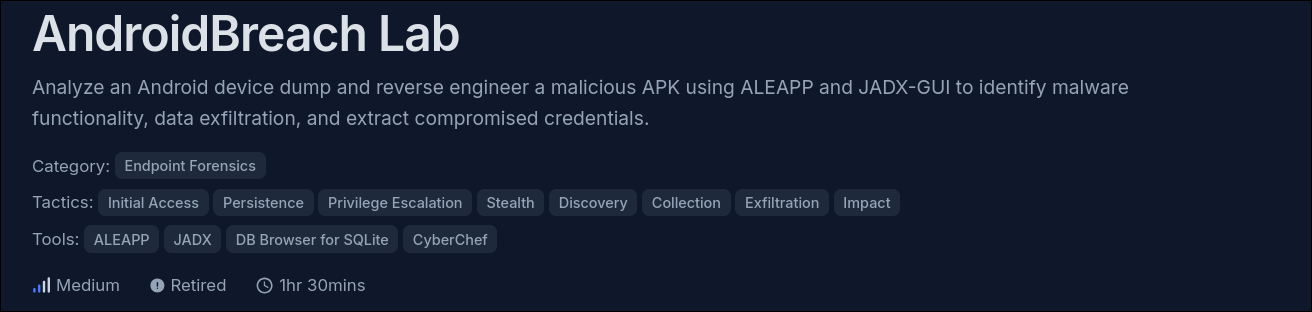
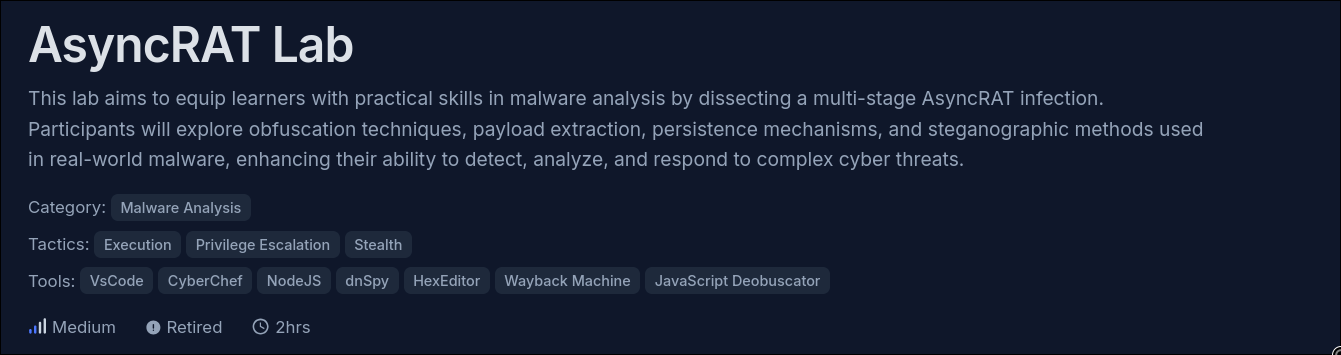
fix some image

diff --git a/_posts/cyber-defenders/threat-hunting/2026-10-03-cyber-defenders-shadowroast.md b/_posts/cyber-defenders/threat-hunting/2026-10-03-cyber-defenders-shadowroast.md
@@ -83,7 +83,7 @@ index=shadowroast winlog.event_id=11 winlog.event_data.TargetFilename="C:\\Users
 
 ![image 5.png](/assets/img/cyber-defenders/shadowroast/image%205.png)
 
-Between **01:07:09** and **01:07:19**, `AdobeUpdater.exe` wrote three files to **C:\Users\Default\AppData\Local\Temp\**: **BackupUtility.exe**, **SystemDiagnostics.ps1**, and **DefragTool.exe**. The `Default` directory is a template profile used by Windows when creating profiles for new users; it is rarely accessed by anyone, making it a stealthy location for the attacker's toolkit. The filenames were also disguised as legitimate system utilities. The last row shows a file named `CrashDump.zip` on `FileServer`, which was also dropped in this exact path—I will revisit this in Q8.
+Between **01:07:09** and **01:07:19**, `AdobeUpdater.exe` wrote three files to **C:\Users\Default\AppData\Local\Temp\**: **BackupUtility.exe**, **SystemDiagnostics.ps1**, and **DefragTool.exe**. The `Default` directory is a template profile used by Windows when creating profiles for new users; it is rarely accessed by anyone, making it a stealthy location for the attacker's toolkit. The filenames were also disguised as legitimate system utilities. The last row shows a file named `CrashDump.zip` on `FileServer`, which was also dropped in this exact path (I will revisit this in Q8).
 
 **Answer: C:\Users\Default\AppData\Local\Temp\**
 
@@ -108,7 +108,7 @@ The `OriginalFileName` field is hardcoded into the file during compilation and r
 
 > **Q5: Was the attacker's credential harvesting successful? If so, can you provide the compromised domain account username?**
 
-First, it is important to understand how AS-REP Roasting works. When a user logs into a domain, the machine sends a request for a TGT ticket to the domain controller. Normally, this request must include a timestamp encrypted with the user's password—known as pre-authentication—to prove the requester knows the password. If an account has this requirement disabled, anyone can request a ticket for it, and a portion of the response will be encrypted using the account's password. The attacker can then take this encrypted portion offline and crack it using tools like hashcat, matching the `/format:hashcat` parameter seen in Q4. The domain controller logs every TGT issuance as Event **4768**, which includes a **PreAuthType** field; a value of 0 indicates no pre-authentication was used.
+First, it is important to understand how AS-REP Roasting works. When a user logs into a domain, the machine sends a request for a TGT ticket to the domain controller. Normally, this request must include a timestamp encrypted with the user's password (known as pre-authentication) to prove the requester knows the password. If an account has this requirement disabled, anyone can request a ticket for it, and a portion of the response will be encrypted using the account's password. The attacker can then take this encrypted portion offline and crack it using tools like hashcat, matching the `/format:hashcat` parameter seen in Q4. The domain controller logs every TGT issuance as Event **4768**, which includes a **PreAuthType** field; a value of 0 indicates no pre-authentication was used.
 
 ```spl
 index=shadowroast source="*DC01*" winlog.event_id=4768 @timestamp>"2024-08-06T01:05" @timestamp<"2024-08-06T01:14"
@@ -202,7 +202,7 @@ At **01:20:44**, `tcooper`'s `explorer.exe` launched **powershell.exe -noexit -c
 
 > **Conclusion**
 > 
-> By threat hunting within Splunk using the Security and Sysmon logs of three machines—**Office-PC**, **FileServer**, and **DC01**—I successfully reconstructed an Active Directory attack that unfolded over approximately **16 minutes** on the morning of **2024-08-06**. At **01:05:11**, the user **sanderson** executed **AdobeUpdater.exe** from the Downloads folder on `Office-PC`. Less than a minute later, it established persistence by creating the Run key **wyW5PZyF** to load a registry-hidden payload upon login, and dropped **Rubeus**, a PowerShell script, and **mimikatz** into **C:\Users\Default\AppData\Local\Temp\** using masqueraded names like `BackupUtility.exe` and `DefragTool.exe`.
+> By threat hunting within Splunk using the Security and Sysmon logs of three machines (**Office-PC**, **FileServer**, and **DC01**), I successfully reconstructed an Active Directory attack that unfolded over approximately **16 minutes** on the morning of **2024-08-06**. At **01:05:11**, the user **sanderson** executed **AdobeUpdater.exe** from the Downloads folder on `Office-PC`. Less than a minute later, it established persistence by creating the Run key **wyW5PZyF** to load a registry-hidden payload upon login, and dropped **Rubeus**, a PowerShell script, and **mimikatz** into **C:\Users\Default\AppData\Local\Temp\** using masqueraded names like `BackupUtility.exe` and `DefragTool.exe`.
 > 
 > At **01:10:45**, Rubeus performed AS-REP Roasting and obtained tickets for four accounts lacking pre-authentication requirements. The password for **tcooper**, an administrative account, was successfully cracked and utilized via `runas` at **01:13:28**. Leveraging SYSTEM and `tcooper` privileges, the attacker executed a mimikatz DCShadow attack, registering `Office-PC` as a rogue domain controller to manipulate Active Directory data; DC01 subsequently logged the removal of this replication source at **01:15:21**.
 > 
